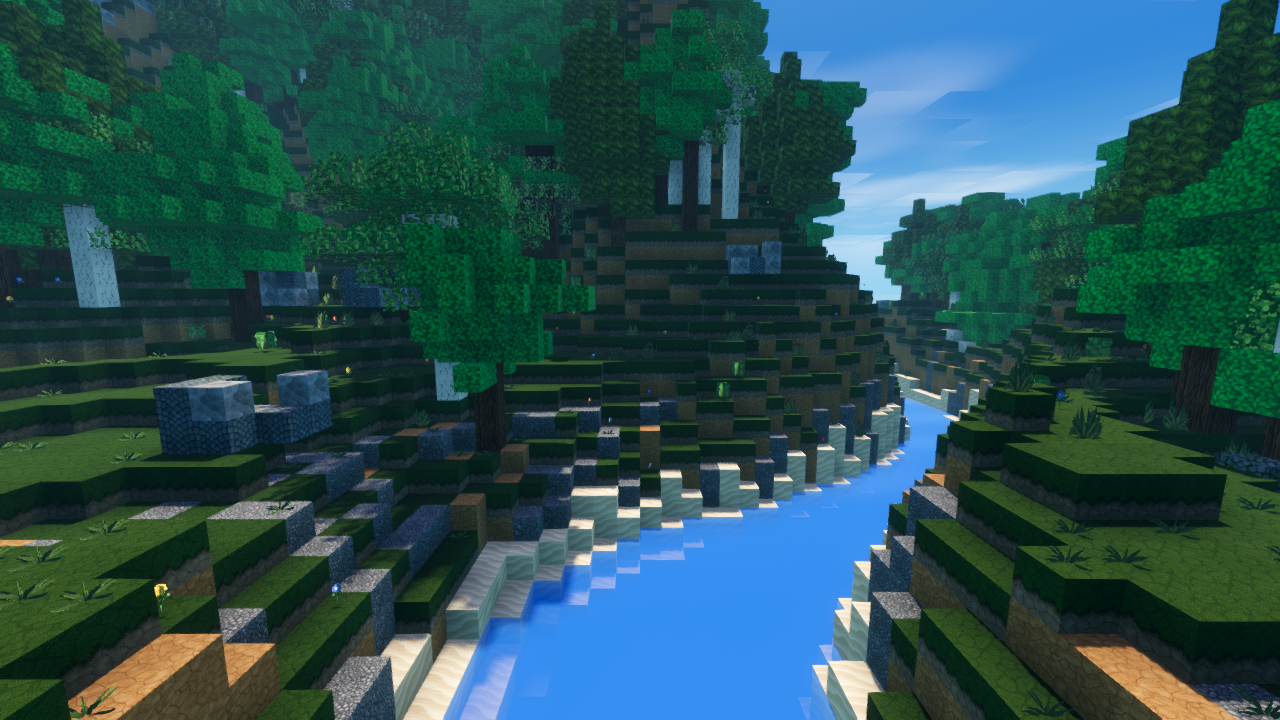
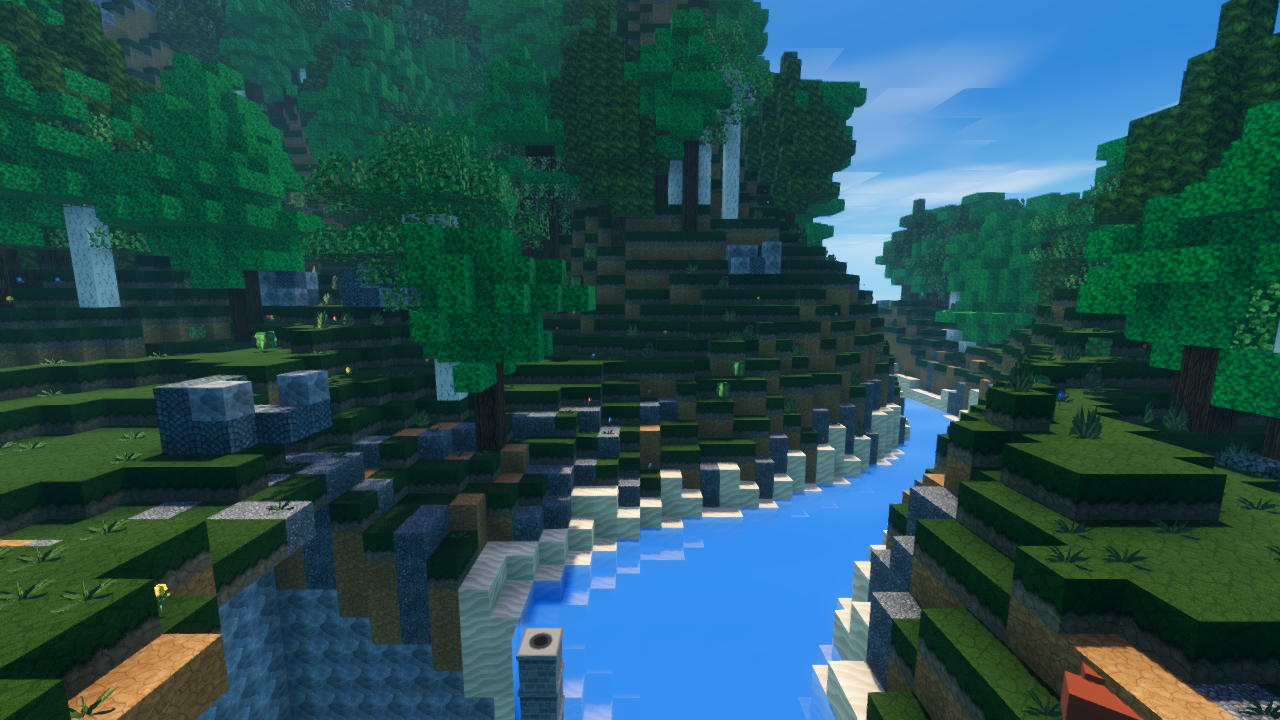
M32: address independent review findings
Keep the fixed M25/M28 showcase sites inside WORLD_HEIGHT on taller v3 highlands by capping the levelled base, and run the prior-milestone showcase tests on the current generator again. Increase and time-bound the integration settle wait so the heavier M32 canopy cannot make a valid settle flake, and require solid spawn ground. Restore the legacy tint helper value. Re-measure the v3 fingerprint, river components and canopy coverage; add a verification summary and a controlled no-marker water before/after.

diff --git a/prototypes/m17/results/godot/m32-report.md b/prototypes/m17/results/godot/m32-report.md
@@ -5,8 +5,8 @@
 **PASS with documented limitations.** A continuous winding river is now demonstrated in
 runtime captures, the forest canopy and riverbanks are visibly closer to the primary
 reference, the thin dark vertical lines are explained and fixed, generator versions 0/1/2
-remain byte-identical, and matched performance measurements show no frame-time regression
-at the cost of more foliage geometry and draw calls.
+remain byte-identical, and matched performance measurements show stable average/median
+frame pacing at the cost of more foliage geometry, draw calls and mesh-build time.
 
 ## Preflight
 
@@ -51,7 +51,8 @@ not a chunk seam, material or shadow artifact.
 
 The matched water view showed a strong checkerboard from the transparent water revealing the
 blocky riverbed. This is a material issue, not chunk seams. The shader was changed to reach
-opaque water closer to shore and to reduce the atlas grain; the matched before/after is
+opaque water closer to shore and to reduce the atlas grain. Both captures use the same
+camera, seed, generator and `--no-target-marker`, with only the water shader differing:
 `m32-water-before.png` / `m32-water-after.png`.
 
 ## What changed
@@ -68,16 +69,23 @@ keep their exact output.
   detail field breaks long straight terrace edges. Upper mountain slopes below the snow line
   now carry grass and a conifer treeline instead of a bare grey belt.
 - **Forest**: highland plains/savanna become forest above `SEA + 8`, clearings are slightly
-  smaller, canopy candidates are denser (measured 13.3% tree coverage over forest columns,
-  versus 13.7% in M31), clearings still stay open, and broadleaf crowns are larger, lower on
+  smaller, canopy candidates are denser (global probe 13.3% tree coverage over forest
+  columns, 14.6% in the focused forest box; M31 measured 13.7%), clearings still stay open,
+  and broadleaf crowns are larger, lower on
   the trunk, more varied in height, and more heavily trimmed at the corners. Trees on slopes
   get a small height lift so the crown clears the uphill tread. Pines are less frequent in
   lowland forest and no longer receive the slope lift.
 - **Foliage tint**: tint is now version-aware through `ChunkData.terrain_version`, so v3 can
   use a brighter lime canopy without changing the palette of v0/v1/v2 chunks or fixtures.
-- **Spawn**: `VoxelPlayer.spawn_on_column` skips natural leaves and trunks, so the new dense
-  canopy cannot spawn the player on top of a tree. This was a real regression found during
-  the performance run (spawn y=101 on leaves); it now spawns on the ground at y=81.
+- **Spawn**: `VoxelPlayer.spawn_on_column` requires a solid block and skips natural leaves and
+  trunks, so the new dense canopy cannot spawn the player on top of a tree (or on water or a
+  flower). This was a real regression found during the performance run (spawn y=101 on
+  leaves); it now spawns on the ground at y=81.
+- **Showcase height fitting**: the fixed M25/M28 demo sites now cap their levelled base at
+  `WORLD_HEIGHT - 16`. On v3 the surrounding highlands are about 6 blocks taller than the
+  M30 terrain the fixed site was chosen on; without the cap the keep roof and cottage chimney
+  were silently dropped at the world ceiling. The M29/M28 tests now run on the **current v3**
+  generator again instead of being pinned to v1.
 - **Target marker**: the outline is hidden when the hit is closer than 0.75 m, which removes
   the full-frame hairline artifact without changing normal targeting.
 - **Water material**: `depth_scale` 7.0 → 2.5, `alpha_deep` 0.985 → 1.0, atlas grain
@@ -132,9 +140,10 @@ on this machine.
 Hero-view geometry at settle: 305,242 faces (M31) → 355,349 faces (M32), +16.4%. At the
 ground river view: 544,309 → 618,533 faces (+13.6%), draw calls 782 → 864 (+10.5%),
 primitives 572,438 → 828,426 (+44.7%). The extra primitives are the cost of the denser,
-larger canopy. Frame pacing is unchanged because the streamer's per-frame budgets absorb the
-work; the visible regression is GPU geometry and mesh-build time, not average/worst frame
-time. No canopy or river feature was removed to hide this trade-off.
+larger canopy. Median average FPS and the 1% low stay within run-to-run variance, while
+p95/p99 are 2–3% higher, the settle worst frame is 4–6 ms higher, and mesh-build time is
+5–12% higher. The trade-off is therefore real but bounded: more foliage geometry and mesh
+work, not a sustained frame-rate collapse. No canopy or river feature was removed to hide it.
 
 ## Verification
 
@@ -144,10 +153,16 @@ Commands run from the M32 worktree with
 | Suite | Command | Result |
 |---|---|---|
 | Unit | `--headless --path prototypes/m17/godot --script res://scripts/tests/run_tests.gd` | `M17_TESTS_PASS 2578 assertions`, exit 0 |
-| Integration | `--headless --path prototypes/m17/godot --script res://scripts/tests/run_integration.gd -- --straight-to-game` | `M17_INTEGRATION_PASS 463 assertions`, exit 0 |
+| Integration | `--headless --path prototypes/m17/godot --script res://scripts/tests/run_integration.gd -- --straight-to-game` | 5/5 runs `M17_INTEGRATION_PASS 463 assertions`, exit 0 |
 | Regression | `--headless --path prototypes/m17/godot --script res://scripts/regression.gd` | `M17_REGRESSION_PASS assertions=52`, exit 0 |
 | Smoke ×2 | `--headless --path prototypes/m17/godot -- --straight-to-game --seed=17017 --render-distance=6 --quit-after=30` | both `world_hash=5495814557571427371`, `faces_hash=3989804036799183035`, `faces=468281`, exit 0 |
-| River probe | `--headless ... --script res://scripts/tests/m32_river_probe.gd -- --version=3 --radius=512 --step=4` | 150 inland water components; largest `x=-304..-192 z=4..136`, height 55..61 |
+| River probe | `--headless ... --script res://scripts/tests/m32_river_probe.gd -- --version=3 --radius=512 --step=4` | 173 inland water components; largest `x=-304..-192 z=4..140`, height 55..61 |
+
+The integration settle wait is now 2400 frames **and** a 45 s wall-clock cap. The M32 canopy
+raises mesh work by 5–12%, so the old 900-frame-only cap failed intermittently under CPU
+contention even though streaming finished. The pass condition (all queued work finished, no
+dirty meshes) is unchanged; only the bounded wait is larger and now also time-based. Five
+consecutive runs passed.
 
 Focused tests in `test_m32_landscape.gd`:
 - version 3 is current and supported; version 4 is rejected;
@@ -157,8 +172,8 @@ Focused tests in `test_m32_landscape.gd`:
   not quantised into 2-block bands;
 - the river reach at `z=152` has a continuous exposed water surface, returns grass and soil
   outside the sand edge, and is not an all-sand apron;
-- canopy coverage is 13.3% (dense but not a carpet), crowns span at least five blocks in x, z
-  and y, and the M32 tree pad is 8;
+- canopy coverage is 13.3% globally and 14.6% in the focused box (dense but not a carpet),
+  crowns span at least five blocks in x, z and y, and the M32 tree pad is 8;
 - the target marker is hidden at 0 and 0.5 m, shown at 0.75 m and 3 m, and can be disabled;
 - spawn ground skips leaves and trunks but accepts grass and a player-built plank surface.
 
@@ -169,11 +184,34 @@ Generator fingerprint (`wilderness_probe.gd --fingerprint`, seed 17017):
 | 0 (M29) | `3214517825889907206` |
 | 1 (M30) | `5947596836865492245` |
 | 2 (M31) | `8397584315617538769` |
-| 3 (M32) | `8299345369586821846` |
+| 3 (M32) | `8802792587028581708` |
 
 Version 0/1/2 is unchanged; a v2 save still records and restores the M31 generator. Save
 loading, player edits, block IDs, chunk streaming, collision, water propagation and the M29
 build systems are covered by the existing suites.
+
+## Independent review findings addressed
+
+The first independent review returned **FAIL** with three blocking findings. They were
+resolved on the branch before this report was finalized:
+
+1. **Integration settle flake**: five consecutive integration runs were failing or flaky at
+   the 900-frame-only wait. The wait now has a 2400-frame cap plus a 45 s wall-clock cap; the
+   pass condition is unchanged. Five consecutive runs passed. The underlying mesh-cost
+   increase is disclosed rather than hidden.
+2. **v3 showcase clipping**: the fixed M25/M28 sites were being re-pinned to v1 in tests,
+   which hid ~1,500 dropped showcase blocks on v3. `BuildDemo` and `FinalDemo` now cap their
+   levelled base at `WORLD_HEIGHT - 16`; both showcase tests run on the current v3 generator
+   again and pass, including the keep ridge and cottage chimney.
+3. **Stale report numbers**: v3 fingerprint, river-probe components and canopy coverage were
+   re-measured on the final code and corrected. The v3 hash is
+   `8802792587028581708`; the river probe reports 173 inland components with the largest
+   `z=4..140`; the canopy is 13.3% globally and 14.6% in the focused test box.
+
+The review's non-blocking notes were also addressed: spawn ground now requires a solid
+block, the legacy tint helper value is preserved, the water A/B now uses `--no-target-marker`
+on both sides and differs only by the shader, and the performance wording no longer claims
+"no regression."
 
 ## Limitations
 
@@ -199,12 +237,14 @@ build systems are covered by the existing suites.
 - `prototypes/m17/godot/scripts/core/world_gen.gd` (v3)
 - `prototypes/m17/godot/scripts/core/chunk_data.gd` (per-chunk generator version)
 - `prototypes/m17/godot/scripts/core/chunk_mesher.gd` (version-aware tint)
+- `prototypes/m17/godot/scripts/game/build_demo.gd` (showcase height cap)
+- `prototypes/m17/godot/scripts/game/final_demo.gd` (showcase height cap)
 - `prototypes/m17/godot/scripts/game/voxel_player.gd` (marker distance, spawn ground)
 - `prototypes/m17/godot/scripts/game/game.gd` (`--no-target-marker` diagnostic)
 - `prototypes/m17/godot/shaders/voxel_water.gdshader`
 - `prototypes/m17/godot/scripts/tests/test_m32_landscape.gd` (new)
 - `prototypes/m17/godot/scripts/tests/m32_river_probe.gd` (new diagnostic)
 - `prototypes/m17/godot/scripts/tests/{run_tests,run_integration,test_generation,test_m31_wilderness,test_m29_architecture,test_final_demo,wilderness_probe}.gd`
-- `prototypes/m17/results/godot/m32-*.png`, `m32-matched-*.json`, this report
+- `prototypes/m17/results/godot/m32-*.png`, `m32-matched-*.json`, `m32-verification.txt`, this report
 
 Generated `.import`/`.uid` files from the Godot import pass are not part of the commit.
